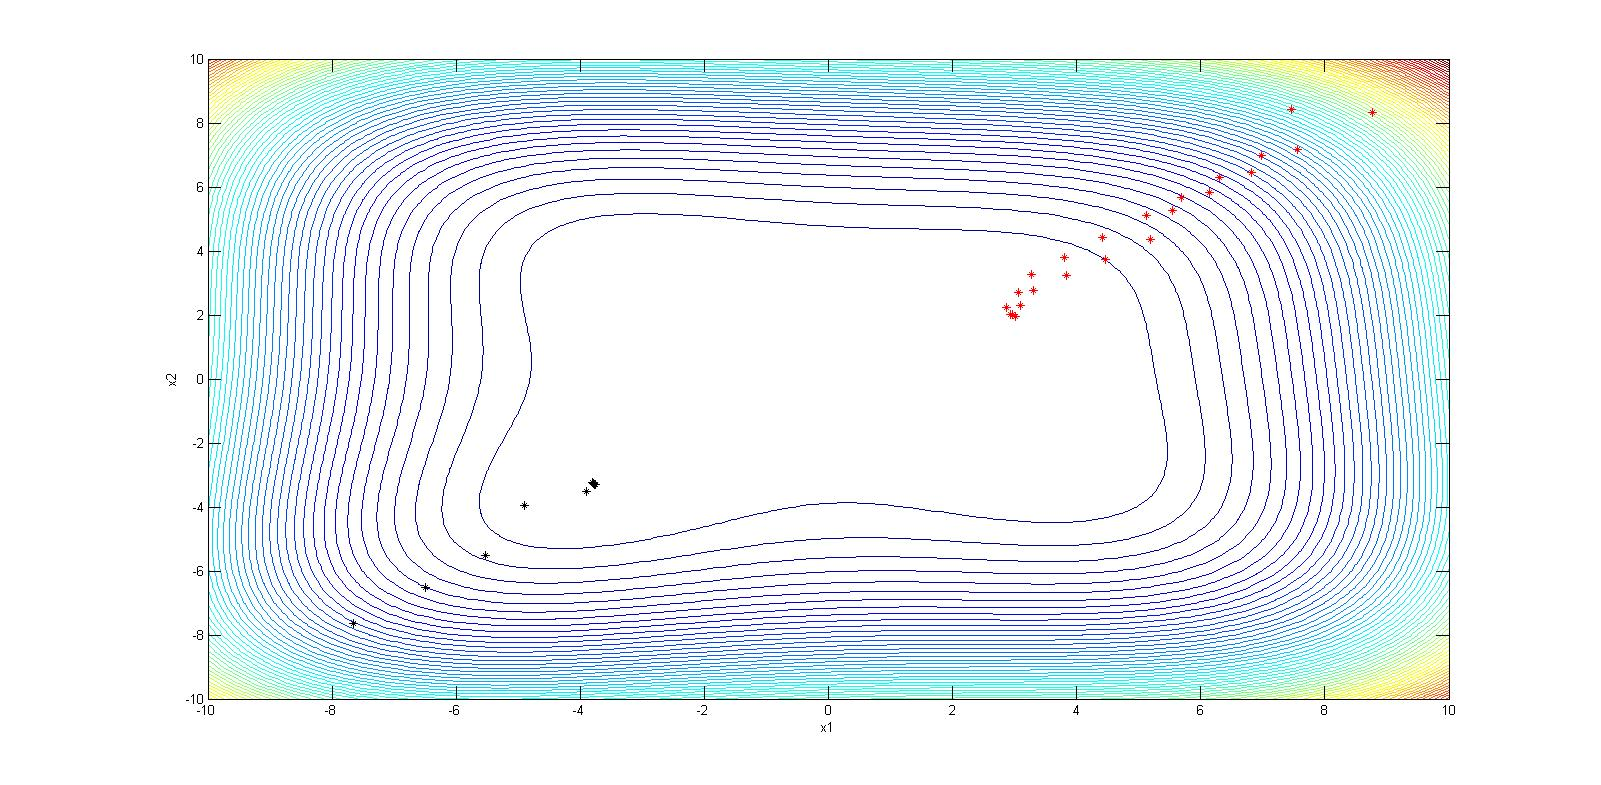
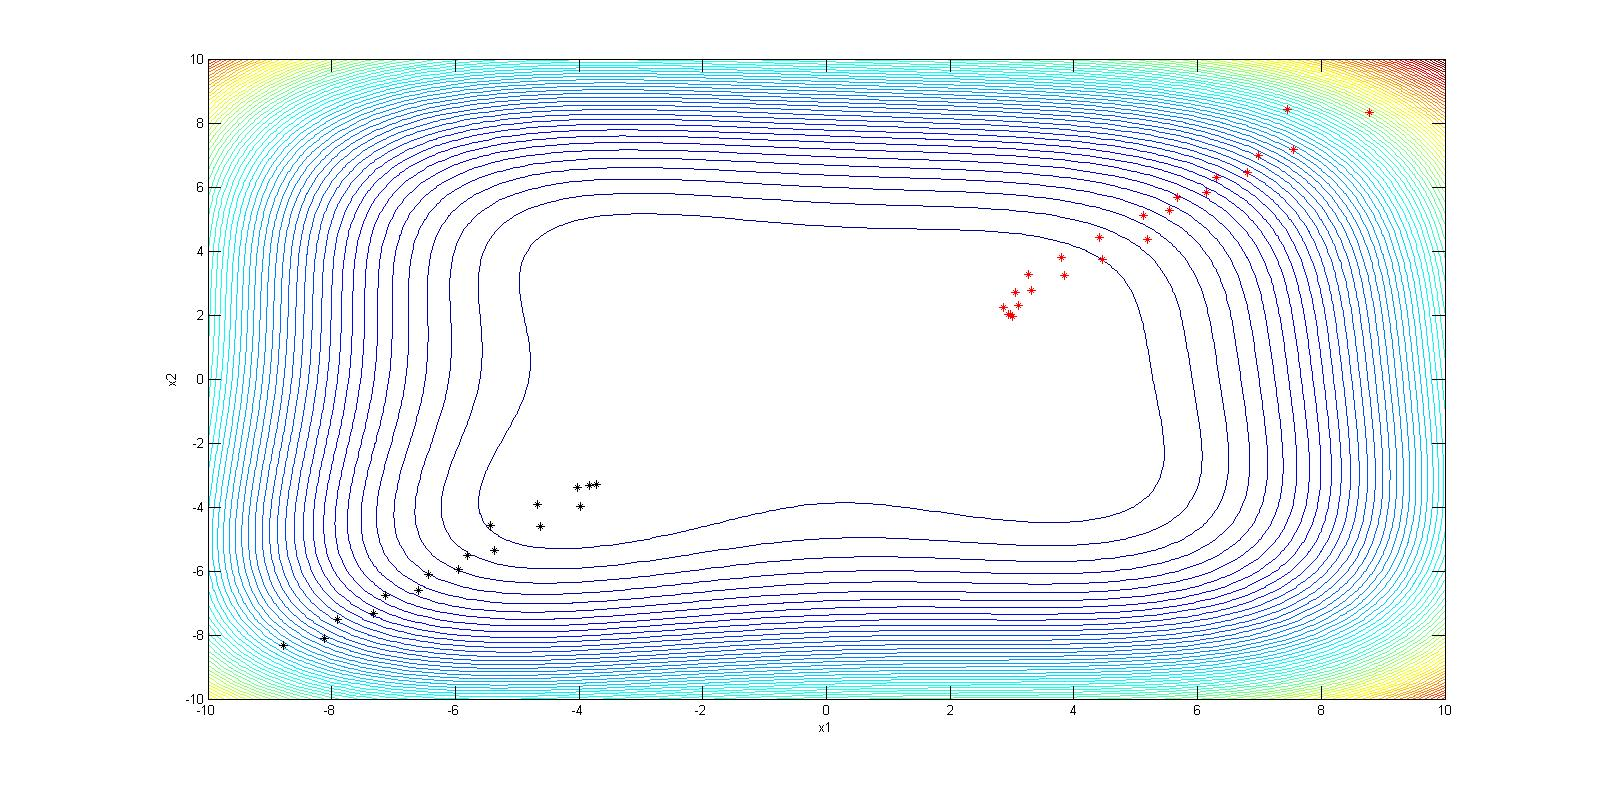
examples.tex und bilder noch angepasst selina

Changed region(s): [[0.675, 0.0611, 0.9205, 0.8866], [0.1227, 0.0611, 0.3068, 0.8866], [0.2761, 0.7032, 0.3068, 0.7338]]

diff --git a/doku/chapters/examples.tex b/doku/chapters/examples.tex
@@ -1,5 +1,5 @@
 \section{Beispiele}
-Auf Grund seines eher einfachen Entscheidungsverfahren ist es nicht sehr aufwendig den Algorithmus in einer entsprechenden Programmiersprache wie C zu implementieren. Eine Schleife mit den richtigen if-else-Abfragen und man hat einen funktionierenden Simplex-Downhill programmiert.\\
+Auf Grund seines eher einfachen Entscheidungsbaums ist es nicht sehr aufwendig den Algorithmus in einer entsprechenden Programmiersprache wie C zu implementieren. Eine Schleife mit den richtigen if-else-Abfragen und man hat einen funktionierenden Simplex-Downhill programmiert.\\
 Nat"urlich ist der Algorithmus auch in Matlab integriert, man kann ihn mittels der Funktion \textbf{fminsearch} aufrufen. 
 Der einfachste Aufruf erfolgt, indem man der Funktion \textbf{fminsearch} die Zielfunktion \textbf{fun} sowie den Startwert \textbf{$x_0$} "ubergibt. Wobei der R"uckgabewert ein neuen x-Wert ist, welcher den Funktionswert $fun(x)$ kleiner werden l"asst. 
 \begin{lstlisting}
@@ -12,17 +12,17 @@ Will man nun beispielsweise beobachten, wie der Algorithmus das Minima sucht, ka
 %------------------------------------------------------------
 xBorder = 10; 
 teration = 20; 
-x = (-xBorder:0.1:xBorder);				%Dimensionen x und y
+x = (-xBorder:0.1:xBorder);     %Dimensionen x und y
 y = (-xBorder:0.1:xBorder); 
 
-[xx, yy] = meshgrid(x,y);	%meshgrid f"ur sp"atere Ausgabe
-Fun = FUNKTION_SEINER_WAHL(xx,yy); %Berechne gew"unschte Funktionswerte
+[xx, yy] = meshgrid(x,y);       %meshgrid f"ur sp"atere Ausgabe
+Fun = FUNKTION_SEINER_WAHL(xx,yy); %Berechne Funktionswerte
 
-x_newFun = [4.9,4.9];			%Startwert
-z_newFun = 0; 					%Funktionswert
-x_Fun = zeros(2,2*teration+1); 	%Vektor f"ur x1,x2
-z_Fun = zeros(1,2*teration+1);	%Vektor f"ur Funktionswerte
-options = struct('MaxIter',3);	%Einstellungen fminsearch
+x_newFun = [4.9,4.9];           %Startwert
+z_newFun = 0;                   %Funktionswert
+x_Fun = zeros(2,2*teration+1);  %Vektor f"ur x1,x2
+z_Fun = zeros(1,2*teration+1);  %Vektor f"ur Funktionswerte
+options = struct('MaxIter',3);  %Einstellungen fminsearch
 %------------------------------------------------------------
 %Berechnung Simplex-Downhill
 %------------------------------------------------------------
@@ -37,11 +37,12 @@ end
 %------------------------------------------------------------
 %Darstellung mittels H"ohenlinien
 figure; 
-contour(xx,yy,Fun,50); 		%Zahl am Ende gibt an, wieviele H"ohenlinien geplottet werden sollen
+contour(xx,yy,Fun,50);      %Zahl am Ende gibt an, wieviele 
+                            %H"ohenlinien geplottet werden
 hold on; 
-for i=1:length(x_Fun)		%For-Schleife f"ur Visualisierung
+for i=1:length(x_Fun)       %For-Schleife f"ur Visualisierung
     plot(x_Fun(1,i),x_Fun(2,i),'-*r'); 
-    pause(0.5)				%Pause von 0.5 Sekunden
+    pause(0.5)              %Pause von 0.5 Sekunden
 end
 hold off; 
 
@@ -54,8 +55,8 @@ hold off;
 grid on; 
 \end{lstlisting}
 Mittels dem in der Initialisierung definierten Struct kann man der Funktion einige Optionen "ubergeben. 
-In diesem Fall wird dem Algorithmus mitgeteilt, wieviele Iterationen er in einem Mal aufrufen durchf"uhren soll. 
-Wenn man - wie in unserem Fall - die Werte beobachten will, so sollte diese Zahl m"oglichst klein sein, darf jedoch nicht kleiner als 2 sein. 
+In diesem Fall wird dem Algorithmus mitgeteilt, wieviele Iterationen er pro Aufruf durchf"uhren soll. 
+Wenn man - wie in unserem Fall - die Werte beobachten will, so sollte diese Zahl m"oglichst klein sein, darf jedoch nicht kleiner als 2 sein (warum auch immer).
 Im folgenden wurde der Code auf die Himmelblau-Funktion angewendet: 
 \begin{equation}
 	f_{hb} = (x_1^2 + x_2 -11)^2 + (x_1+x_2^2-7)^2
@@ -69,9 +70,8 @@ Diese Funktion hat 4 globale Minima:
 		f(3.58,-1.85) &= 0
 	\end{align}
 \end{subequations}
-Auf die Funktion wurden zwei Simplex los gelassen, je in gegen"uberliegenden Ecken (9,9) und (-9,-9). Beim roten Simplex ist die Anzahl interner Iterationen von \textbf{fminsearch} auf 2, beim schwarzen Simplex ist die Iteration auf 6 eingestellt.\\
-Rein intuitiv ist es klar, dass das schwarze Simplex schneller Richtung Minima konvergiert als das rote Simplex, was in den nachfolgenden Bildern auch zu erkennen ist. \\
-Ausserdem sieht man auch deutlich, dass beide Simplexe das ihnen n"achstgelegene Minima ansteuern. 
+Auf die Funktion wurden zwei Simplex los gelassen, je in gegen"uberliegenden Ecken (9,9) und (-9,-9).\\
+Man sieht deutlich, dass beide Simplexe das ihnen n"achstgelegene Minima ansteuern. 
 \begin{figure}[h]
 	\centering
 	\includegraphics[width=0.8\textwidth]{../bilder/HimmelblauHoehen.jpg}%
@@ -82,16 +82,16 @@ Ausserdem sieht man auch deutlich, dass beide Simplexe das ihnen n"achstgelegene
 \begin{figure}[h]
 	\centering
 	\includegraphics[width=0.8\textwidth]{../bilder/Himmelblau3DRot.jpg}%
-  	\caption{Rotes Simplex mit interner Iteration von 3}%
+  	\caption{Rotes Simplex}%
 	\label{fig:HB2}%
 \end{figure}
 \begin{figure}[h]
 	\centering
 	\includegraphics[width=0.8\textwidth]{../bilder/Himmelblau3DSchwarz.jpg}%
-  	\caption{Schwarzes Simplex mit interner Iteration von 6}%
+  	\caption{Schwarzes Simplex}%
 	\label{fig:HB3}%
 \end{figure}
-
+\newpage
 Beim folgenden Bild sieht man, wie der Algorithmus auf die Quadratfunktion angewendet wird, die interne Iterationszahl von \textbf{fminsearch} ist dabei auf 2 gesetzt und der Algorithmus wird 20 mal durchgef"uhrt.\\
 In der Graphik sieht man, dass der Algorithmus eher langsam konvergiert, jedoch von beiden Seiten her dasselbe Resultat erzielt. 
 \begin{figure}[h]
